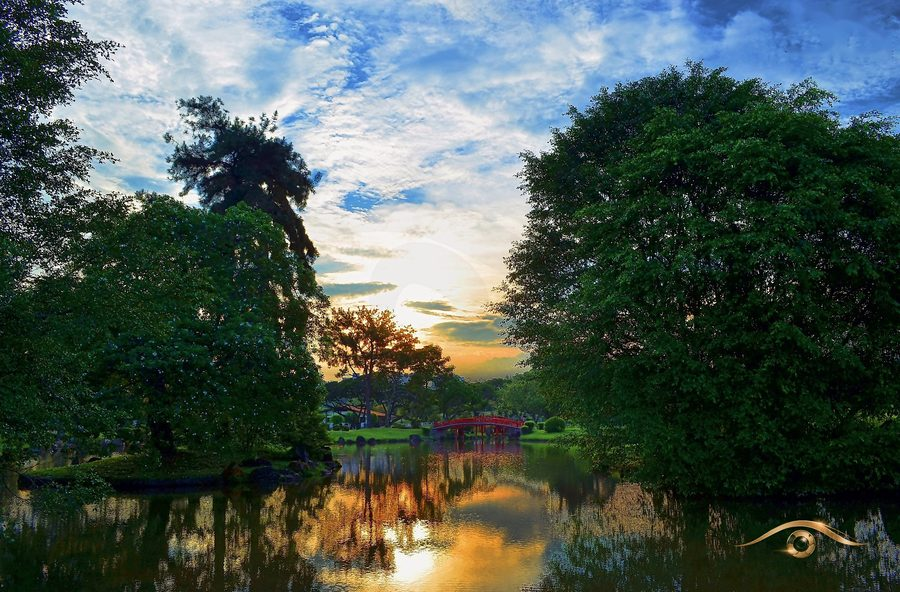
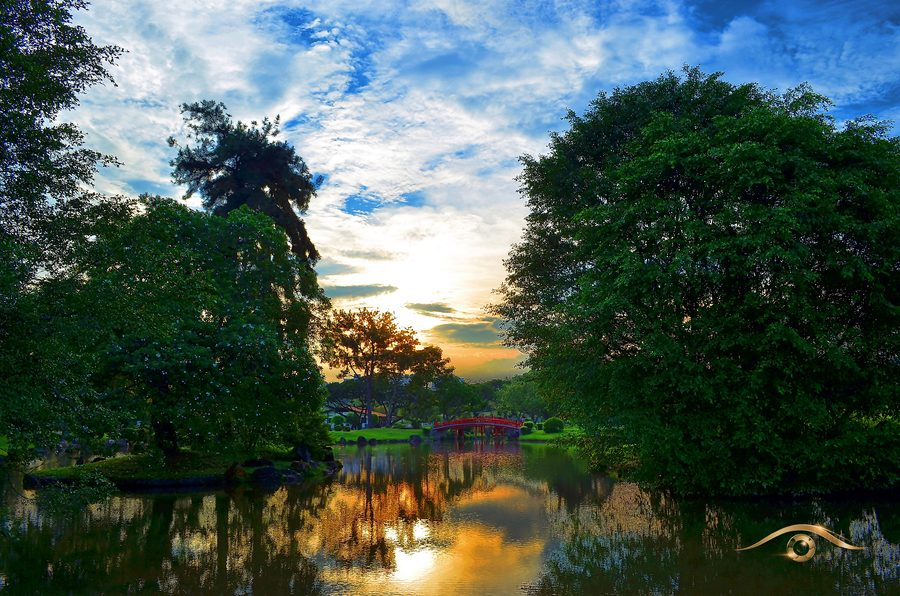
Rebuild 9 Singapore photos and hero from clean originals
The website copies of these photos still carried a faint old logo
watermark. Rebuilt them from the photographer's clean full-size edits.

Claude-Session: https://claude.ai/code/session_01Cg4GDjq4FPRgC9F7tsjHUg

diff --git a/index.html b/index.html
@@ -174,7 +174,7 @@ footer img { width: 64px; }
     </div>
     <div class="series-index">
 <a class="series-card" href="#singapore-nights">
-  <img src="images/singapore-nights/b1-09-sm.jpg" alt="" loading="lazy" width="2000" height="1372">
+  <img src="images/singapore-nights/b1-09-sm.jpg" alt="" loading="lazy" width="2000" height="1380">
   <span class="series-card__text"><span class="series-card__name">Singapore Nights</span><span class="series-card__count">11 frames</span></span>
 </a>
 <a class="series-card" href="#garden-light">
@@ -182,11 +182,11 @@ footer img { width: 64px; }
   <span class="series-card__text"><span class="series-card__name">Garden Light</span><span class="series-card__count">43 frames</span></span>
 </a>
 <a class="series-card" href="#quiet-places">
-  <img src="images/quiet-places/b1-03-sm.jpg" alt="" loading="lazy" width="2000" height="1316">
+  <img src="images/quiet-places/b1-03-sm.jpg" alt="" loading="lazy" width="2000" height="1324">
   <span class="series-card__text"><span class="series-card__name">Quiet Places</span><span class="series-card__count">13 frames</span></span>
 </a>
 <a class="series-card" href="#wild-singapore">
-  <img src="images/wild-singapore/b1-02-sm.jpg" alt="" loading="lazy" width="2000" height="1316">
+  <img src="images/wild-singapore/b1-02-sm.jpg" alt="" loading="lazy" width="2000" height="1324">
   <span class="series-card__text"><span class="series-card__name">Wild Singapore</span><span class="series-card__count">19 frames</span></span>
 </a>
 <a class="series-card" href="#deep-blue">
@@ -216,9 +216,9 @@ footer img { width: 64px; }
     <p class="series__blurb">When the sun goes down, the city starts to glow. Gardens by the Bay and Marina Bay after dark.</p>
   </header>
   <div class="gallery" style="columns: 4 260px">
-<figure class="frame"><button type="button" class="frame__open" data-full="images/singapore-nights/b1-09.jpg" data-title="Supertrees and Marina Bay Sands" data-series="Singapore Nights" aria-label="Open Supertrees and Marina Bay Sands"><img src="images/singapore-nights/b1-09-sm.jpg" alt="Supertrees and Marina Bay Sands" loading="lazy" width="2000" height="1372"></button><figcaption><span>Supertrees and Marina Bay Sands</span></figcaption></figure>
-<figure class="frame"><button type="button" class="frame__open" data-full="images/singapore-nights/b1-01.jpg" data-title="Supertree Grove at night" data-series="Singapore Nights" aria-label="Open Supertree Grove at night"><img src="images/singapore-nights/b1-01-sm.jpg" alt="Supertree Grove at night" loading="lazy" width="2000" height="1323"></button><figcaption><span>Supertree Grove at night</span></figcaption></figure>
-<figure class="frame"><button type="button" class="frame__open" data-full="images/singapore-nights/b1-07.jpg" data-title="The Shoppes from above" data-series="Singapore Nights" aria-label="Open The Shoppes from above"><img src="images/singapore-nights/b1-07-sm.jpg" alt="The Shoppes from above" loading="lazy" width="2000" height="1152"></button><figcaption><span>The Shoppes from above</span></figcaption></figure>
+<figure class="frame"><button type="button" class="frame__open" data-full="images/singapore-nights/b1-09.jpg" data-title="Supertrees and Marina Bay Sands" data-series="Singapore Nights" aria-label="Open Supertrees and Marina Bay Sands"><img src="images/singapore-nights/b1-09-sm.jpg" alt="Supertrees and Marina Bay Sands" loading="lazy" width="2000" height="1380"></button><figcaption><span>Supertrees and Marina Bay Sands</span></figcaption></figure>
+<figure class="frame"><button type="button" class="frame__open" data-full="images/singapore-nights/b1-01.jpg" data-title="Supertree Grove at night" data-series="Singapore Nights" aria-label="Open Supertree Grove at night"><img src="images/singapore-nights/b1-01-sm.jpg" alt="Supertree Grove at night" loading="lazy" width="2000" height="1331"></button><figcaption><span>Supertree Grove at night</span></figcaption></figure>
+<figure class="frame"><button type="button" class="frame__open" data-full="images/singapore-nights/b1-07.jpg" data-title="The Shoppes from above" data-series="Singapore Nights" aria-label="Open The Shoppes from above"><img src="images/singapore-nights/b1-07-sm.jpg" alt="The Shoppes from above" loading="lazy" width="2000" height="1158"></button><figcaption><span>The Shoppes from above</span></figcaption></figure>
 <figure class="frame"><button type="button" class="frame__open" data-full="images/singapore-nights/013.jpg" data-title="Supertrees glow" data-series="Singapore Nights" aria-label="Open Supertrees glow"><img src="images/singapore-nights/013-sm.jpg" alt="Supertrees glow" loading="lazy" width="2000" height="1365"></button><figcaption><span>Supertrees glow</span><span class="frame__no">No. 013</span></figcaption></figure>
 <figure class="frame"><button type="button" class="frame__open" data-full="images/singapore-nights/022.jpg" data-title="Supertrees dusk" data-series="Singapore Nights" aria-label="Open Supertrees dusk"><img src="images/singapore-nights/022-sm.jpg" alt="Supertrees dusk" loading="lazy" width="2000" height="1325"></button><figcaption><span>Supertrees dusk</span><span class="frame__no">No. 022</span></figcaption></figure>
 <figure class="frame"><button type="button" class="frame__open" data-full="images/singapore-nights/061.jpg" data-title="Singapore Flyer over the river" data-series="Singapore Nights" aria-label="Open Singapore Flyer over the river"><img src="images/singapore-nights/061-sm.jpg" alt="Singapore Flyer over the river" loading="lazy" width="2000" height="1325"></button><figcaption><span>Singapore Flyer over the river</span><span class="frame__no">No. 061</span></figcaption></figure>
@@ -288,9 +288,9 @@ footer img { width: 64px; }
     <p class="series__blurb">Pagodas, bridges and still water. The calm corners worth slowing down for.</p>
   </header>
   <div class="gallery" style="columns: 4 260px">
-<figure class="frame"><button type="button" class="frame__open" data-full="images/quiet-places/b1-03.jpg" data-title="Chinese Garden at dusk" data-series="Quiet Places" aria-label="Open Chinese Garden at dusk"><img src="images/quiet-places/b1-03-sm.jpg" alt="Chinese Garden at dusk" loading="lazy" width="2000" height="1316"></button><figcaption><span>Chinese Garden at dusk</span></figcaption></figure>
-<figure class="frame"><button type="button" class="frame__open" data-full="images/quiet-places/b1-05.jpg" data-title="The pagoda" data-series="Quiet Places" aria-label="Open The pagoda"><img src="images/quiet-places/b1-05-sm.jpg" alt="The pagoda" loading="lazy" width="1316" height="2000"></button><figcaption><span>The pagoda</span></figcaption></figure>
-<figure class="frame"><button type="button" class="frame__open" data-full="images/quiet-places/b1-08.jpg" data-title="Garden sunset" data-series="Quiet Places" aria-label="Open Garden sunset"><img src="images/quiet-places/b1-08-sm.jpg" alt="Garden sunset" loading="lazy" width="2000" height="1316"></button><figcaption><span>Garden sunset</span></figcaption></figure>
+<figure class="frame"><button type="button" class="frame__open" data-full="images/quiet-places/b1-03.jpg" data-title="Chinese Garden at dusk" data-series="Quiet Places" aria-label="Open Chinese Garden at dusk"><img src="images/quiet-places/b1-03-sm.jpg" alt="Chinese Garden at dusk" loading="lazy" width="2000" height="1324"></button><figcaption><span>Chinese Garden at dusk</span></figcaption></figure>
+<figure class="frame"><button type="button" class="frame__open" data-full="images/quiet-places/b1-05.jpg" data-title="The pagoda" data-series="Quiet Places" aria-label="Open The pagoda"><img src="images/quiet-places/b1-05-sm.jpg" alt="The pagoda" loading="lazy" width="1324" height="2000"></button><figcaption><span>The pagoda</span></figcaption></figure>
+<figure class="frame"><button type="button" class="frame__open" data-full="images/quiet-places/b1-08.jpg" data-title="Garden sunset" data-series="Quiet Places" aria-label="Open Garden sunset"><img src="images/quiet-places/b1-08-sm.jpg" alt="Garden sunset" loading="lazy" width="2000" height="1324"></button><figcaption><span>Garden sunset</span></figcaption></figure>
 <figure class="frame"><button type="button" class="frame__open" data-full="images/quiet-places/059.jpg" data-title="Lake pavilion, Chinese Garden" data-series="Quiet Places" aria-label="Open Lake pavilion, Chinese Garden"><img src="images/quiet-places/059-sm.jpg" alt="Lake pavilion, Chinese Garden" loading="lazy" width="2000" height="1325"></button><figcaption><span>Lake pavilion, Chinese Garden</span><span class="frame__no">No. 059</span></figcaption></figure>
 <figure class="frame"><button type="button" class="frame__open" data-full="images/quiet-places/021.jpg" data-title="Pagoda in the trees, Chinese Garden" data-series="Quiet Places" aria-label="Open Pagoda in the trees, Chinese Garden"><img src="images/quiet-places/021-sm.jpg" alt="Pagoda in the trees, Chinese Garden" loading="lazy" width="1325" height="2000"></button><figcaption><span>Pagoda in the trees, Chinese Garden</span><span class="frame__no">No. 021</span></figcaption></figure>
 <figure class="frame"><button type="button" class="frame__open" data-full="images/quiet-places/027.jpg" data-title="Pagoda and lake, Chinese Garden" data-series="Quiet Places" aria-label="Open Pagoda and lake, Chinese Garden"><img src="images/quiet-places/027-sm.jpg" alt="Pagoda and lake, Chinese Garden" loading="lazy" width="1325" height="2000"></button><figcaption><span>Pagoda and lake, Chinese Garden</span><span class="frame__no">No. 027</span></figcaption></figure>
@@ -310,9 +310,9 @@ footer img { width: 64px; }
     <p class="series__blurb">Macaques, birds and other wild neighbours, in Singapore and on the road, and the moments they let you see.</p>
   </header>
   <div class="gallery" style="columns: 4 260px">
-<figure class="frame"><button type="button" class="frame__open" data-full="images/wild-singapore/b1-02.jpg" data-title="Macaque portrait" data-series="Wild Singapore" aria-label="Open Macaque portrait"><img src="images/wild-singapore/b1-02-sm.jpg" alt="Macaque portrait" loading="lazy" width="2000" height="1316"></button><figcaption><span>Macaque portrait</span></figcaption></figure>
-<figure class="frame"><button type="button" class="frame__open" data-full="images/wild-singapore/b1-06.jpg" data-title="Three birds" data-series="Wild Singapore" aria-label="Open Three birds"><img src="images/wild-singapore/b1-06-sm.jpg" alt="Three birds" loading="lazy" width="2000" height="1316"></button><figcaption><span>Three birds</span></figcaption></figure>
-<figure class="frame"><button type="button" class="frame__open" data-full="images/wild-singapore/b1-04.jpg" data-title="Twisted vine" data-series="Wild Singapore" aria-label="Open Twisted vine"><img src="images/wild-singapore/b1-04-sm.jpg" alt="Twisted vine" loading="lazy" width="1316" height="2000"></button><figcaption><span>Twisted vine</span></figcaption></figure>
+<figure class="frame"><button type="button" class="frame__open" data-full="images/wild-singapore/b1-02.jpg" data-title="Macaque portrait" data-series="Wild Singapore" aria-label="Open Macaque portrait"><img src="images/wild-singapore/b1-02-sm.jpg" alt="Macaque portrait" loading="lazy" width="2000" height="1324"></button><figcaption><span>Macaque portrait</span></figcaption></figure>
+<figure class="frame"><button type="button" class="frame__open" data-full="images/wild-singapore/b1-06.jpg" data-title="Three birds" data-series="Wild Singapore" aria-label="Open Three birds"><img src="images/wild-singapore/b1-06-sm.jpg" alt="Three birds" loading="lazy" width="2000" height="1324"></button><figcaption><span>Three birds</span></figcaption></figure>
+<figure class="frame"><button type="button" class="frame__open" data-full="images/wild-singapore/b1-04.jpg" data-title="Twisted vine" data-series="Wild Singapore" aria-label="Open Twisted vine"><img src="images/wild-singapore/b1-04-sm.jpg" alt="Twisted vine" loading="lazy" width="1324" height="2000"></button><figcaption><span>Twisted vine</span></figcaption></figure>
 <figure class="frame"><button type="button" class="frame__open" data-full="images/wild-singapore/286.jpg" data-title="Baby macaque" data-series="Wild Singapore" aria-label="Open Baby macaque"><img src="images/wild-singapore/286-sm.jpg" alt="Baby macaque" loading="lazy" width="2000" height="1600"></button><figcaption><span>Baby macaque</span><span class="frame__no">No. 286</span></figcaption></figure>
 <figure class="frame"><button type="button" class="frame__open" data-full="images/wild-singapore/274.jpg" data-title="Mother and baby" data-series="Wild Singapore" aria-label="Open Mother and baby"><img src="images/wild-singapore/274-sm.jpg" alt="Mother and baby" loading="lazy" width="1325" height="2000"></button><figcaption><span>Mother and baby</span><span class="frame__no">No. 274</span></figcaption></figure>
 <figure class="frame"><button type="button" class="frame__open" data-full="images/wild-singapore/284.jpg" data-title="Watchful" data-series="Wild Singapore" aria-label="Open Watchful"><img src="images/wild-singapore/284-sm.jpg" alt="Watchful" loading="lazy" width="1325" height="2000"></button><figcaption><span>Watchful</span><span class="frame__no">No. 284</span></figcaption></figure>
@@ -473,7 +473,7 @@ footer img { width: 64px; }
 
   <div class="wrap">
     <section class="about" id="about" aria-labelledby="about-h">
-      <img class="about__img" src="images/quiet-places/b1-03.jpg" alt="Bridge and pagoda at dusk in the Chinese Garden" loading="lazy" width="2000" height="1316">
+      <img class="about__img" src="images/quiet-places/b1-03.jpg" alt="Bridge and pagoda at dusk in the Chinese Garden" loading="lazy" width="2000" height="1324">
       <div>
         <p class="eyebrow">About · Singapore</p>
         <h2 id="about-h">The First Sense</h2>
